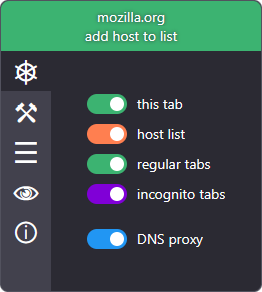
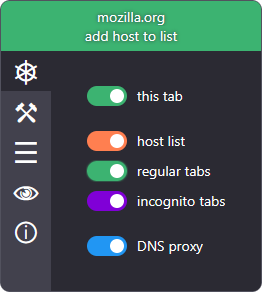
11:28:15,85 17.05.2026

diff --git a/background.js b/background.js
@@ -134,9 +134,13 @@ async function updateDataIfNeeded(data, propsToSave) {
 	}
 
 	if (typeof data.proxyInfo?.port !== `undefined`) {
-		data.port = data.proxyInfo.port;
+		let port = +data.proxyInfo.port;
 
-		propsToSave.add(`port`);
+		if (!isNaN(port) && port >= 0 && Number.isInteger(port)) {
+			data.port = port;
+
+			propsToSave.add(`port`);
+		}
 	}
 
 	if (typeof data.authInfo?.username !== `undefined`) {
@@ -192,10 +196,10 @@ async function getTab(id) {
 	let tabParams;
 
 	if (typeof id === `undefined`) {
-		tabParams = (await browser.tabs.query({currentWindow: true, active: true}))[0];
+		[tabParams] = await browser.tabs.query({currentWindow: true, active: true});
 
 		if (!tabParams) {
-			tabParams = (await browser.tabs.query({active: true}))[0];
+			[tabParams] = await browser.tabs.query({active: true});
 		}
 
 		if (!tabParams || tabParams.id === -1) {

diff --git a/popup/js/popup.js b/popup/js/popup.js
@@ -211,9 +211,17 @@ function addListeners() {
 	});
 
 	ids[`settings-port`].querySelector(`input`).addEventListener(`change`, e => {
-		settings.port = e.target.value;
+		let port = +e.target.value;
 
-		popupPort.postMessage({port: e.target.value});
+		if (isNaN(port) || port < 0 || !Number.isInteger(port)) {
+			port = 0;
+		}
+
+		e.target.value = port;
+
+		settings.port = port;
+
+		popupPort.postMessage({port});
 	});
 
 	ids[`settings-auth`].querySelector(`input`).addEventListener(`change`, e => {

diff --git a/popup/css/styles.css b/popup/css/styles.css
@@ -221,6 +221,10 @@ button:hover {
 	gap: 10px;
 }
 
+#controls > div:first-child {
+	margin-bottom: 15px;
+}
+
 #controls > div:last-child {
 	margin-top: 15px;
 }